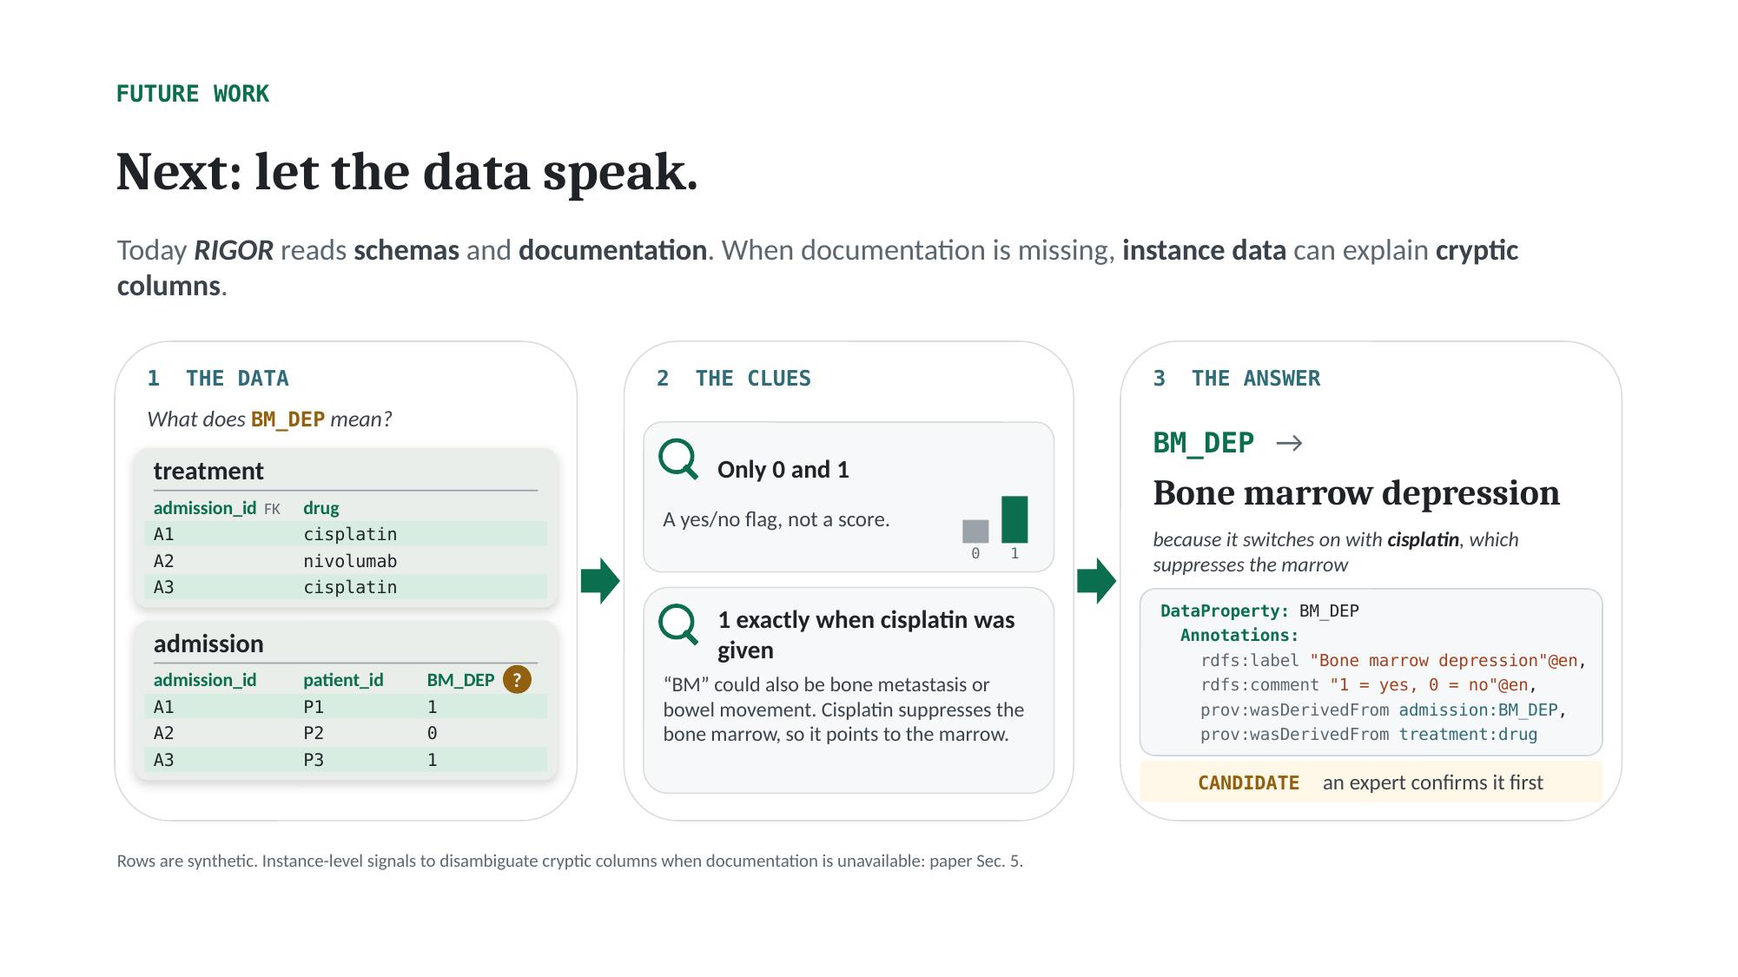
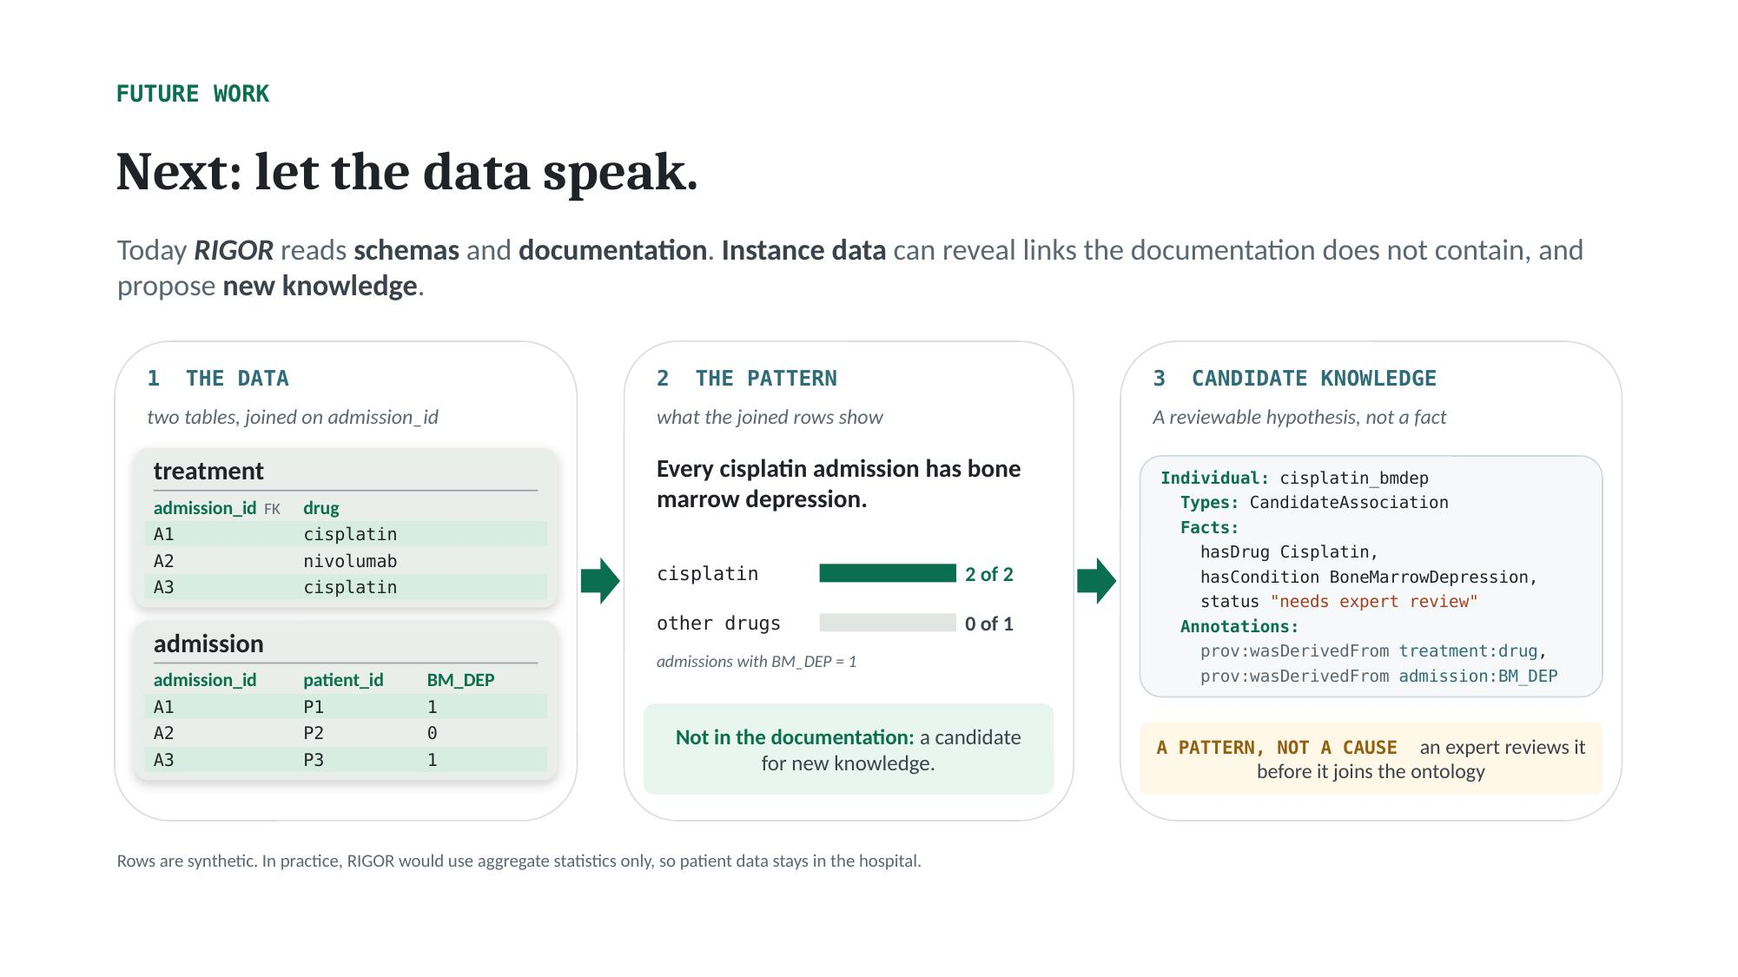
Future work: instance data proposes new knowledge (author's storyline)
Data -> pattern -> candidate knowledge: joined on admission_id, every cisplatin admission has
bone marrow depression, a link not in the documentation, proposed as a candidate association
with provenance to both columns and flagged 'a pattern, not a cause' for expert review. No
documentation in the evidence. Fragment verified with the OWL API; speech updated.

Claude-Session: https://claude.ai/code/session_01KcycczqUBG98FnzsgJYAW8

diff --git a/presentation/tools/future_v3.py b/presentation/tools/future_v3.py
@@ -1,14 +1,11 @@
 #!/usr/bin/env python3
-"""Future-work slide: let the instance data explain a cryptic column (paper Sec. 5).
+"""Future-work slide: instance data can propose new knowledge.
 
-On the author's edited deck (the slide whose eyebrow starts with FUTURE WORK; the evaluation-loop
-step has its own slide in the author's deck):
-  - title "Next: let the data speak.", with the lead line as subtitle;
-  - three cards, data -> clues -> answer: the two instance tables with a "?" on BM_DEP (the question
-    from the motivation slide), two clues read from the data (a 0/1 flag; 1 exactly with cisplatin),
-    and the proposed label with provenance (code_excerpts.FUTURE, verified with the OWL API);
-  - source line in the footer (synthetic rows; paper Sec. 5).
-Speaker notes come from speech.py. Writes a deck with only this slide.
+On the author's edited deck (the slide whose eyebrow starts with FUTURE WORK; the evaluation-loop step has
+its own slide): the data shows a link the documentation does not contain (every cisplatin admission has
+bone marrow depression), and RIGOR proposes it as a candidate association for expert review.
+Three cards: the data (two tables joined on admission_id) -> the pattern -> the candidate knowledge
+(code_excerpts.FUTURE, verified with the OWL API). Speaker notes come from speech.py.
 
 Usage: python3 future_v3.py <in.pptx> <out.pptx>
 """
@@ -59,20 +56,6 @@ def xfrm(x, y, w, h, rot=0):
             f'<a:ext cx="{int(w * EMU)}" cy="{int(h * EMU)}"/></a:xfrm>')
 
 
-def magnifier(ids, x, y, size=0.34):
-    """A plain magnifier in the deck's emerald: a ring and a 45-degree handle."""
-    ring = raw(f'<p:sp><p:nvSpPr><p:cNvPr id="{ids()}" name="Magnifier ring"/><p:cNvSpPr/><p:nvPr/></p:nvSpPr>'
-               f'<p:spPr>{xfrm(x, y, size * 0.72, size * 0.72)}<a:prstGeom prst="ellipse"><a:avLst/></a:prstGeom>'
-               f'<a:solidFill><a:srgbClr val="FFFFFF"/></a:solidFill><a:ln w="28575"><a:solidFill>'
-               f'<a:srgbClr val="{EMERALD}"/></a:solidFill></a:ln></p:spPr></p:sp>')
-    hx, hy = x + size * 0.62, y + size * 0.52
-    handle = raw(f'<p:sp><p:nvSpPr><p:cNvPr id="{ids()}" name="Magnifier handle"/><p:cNvSpPr/><p:nvPr/></p:nvSpPr>'
-                 f'<p:spPr>{xfrm(hx, hy, size * 0.12, size * 0.40, rot=-2700000)}<a:prstGeom prst="roundRect">'
-                 f'<a:avLst/></a:prstGeom><a:solidFill><a:srgbClr val="{EMERALD}"/></a:solidFill><a:ln><a:noFill/>'
-                 f'</a:ln></p:spPr></p:sp>')
-    return [ring, handle]
-
-
 def arrow(ids, x, y):
     return raw(f'<p:sp><p:nvSpPr><p:cNvPr id="{ids()}" name="Arrow"/><p:cNvSpPr/><p:nvPr/></p:nvSpPr>'
                f'<p:spPr>{xfrm(x, y, 0.30, 0.36)}<a:prstGeom prst="rightArrow"><a:avLst/></a:prstGeom>'
@@ -99,9 +82,6 @@ def tables(tree, ids, x, w):
         for col, cw in zip(cols, widths):
             label = r(col, EMERALD, 1050, True) + (r("  FK", MUTED, 900) if col == fk else "")
             add(tree, shape(ids(), "Column", cx, y + 0.35, cw, 0.20, label, anchor="ctr"))
-            if col == "BM_DEP":   # the open question from the motivation slide
-                add(tree, shape(ids(), "Question", cx + 0.58, y + 0.34, 0.22, 0.22, r("?", "FFFFFF", 1100, True),
-                                geom="ellipse", fill=AMBER, align="ctr", anchor="ctr"))
             cx += cw
         for k, row in enumerate(rows):
             ry = y + 0.56 + k * 0.205
@@ -114,47 +94,41 @@ def tables(tree, ids, x, w):
         y += h + 0.10
 
 
-def clues(tree, ids, x, w):
-    cy = CARD_TOP + 0.62
-    for k, (head, body, height) in enumerate((
-            ("Only 0 and 1", "A yes/no flag, not a score.", 1.15),
-            ("1 exactly when cisplatin was given",
-             "\u201cBM\u201d could also be bone metastasis or bowel movement. Cisplatin suppresses the bone marrow, "
-             "so it points to the marrow.", 1.58))):
-        add(tree, shape(ids(), "Clue", x + 0.15, cy, w - 0.30, height, geom="roundRect", fill="F6F8FA", line=LINE))
-        for el in magnifier(ids, x + 0.28, cy + 0.14):
-            add(tree, el)
-        add(tree, box(ids, x + 0.72, cy + 0.10, w - 1.0, 0.50, r(head, INK, 1400, True), anchor="ctr", name="Clue head"))
-        add(tree, box(ids, x + 0.30, cy + 0.64, w - 1.25 if k == 0 else w - 0.6, height - 0.72,
-                      r(body, BODY, 1200 if k == 0 else 1150), name="Clue body"))
-        if k == 0:   # BM_DEP values in the admission rows: one 0, two 1s
-            base = cy + height - 0.22
-            for j, (label, count) in enumerate((("0", 1), ("1", 2))):
-                bx = x + w - 0.85 + j * 0.30
-                add(tree, shape(ids(), "Value bar", bx, base - 0.18 * count, 0.20, 0.18 * count,
-                                fill=EMERALD if label == "1" else "9AA3A9"))
-                add(tree, box(ids, bx - 0.05, base + 0.01, 0.30, 0.16, r(label, MUTED, 900, False, "Consolas"),
-                              align="ctr", name="Value label"))
-        cy += height + 0.12
+def pattern(tree, ids, x, w):
+    y = CARD_TOP + 0.85
+    add(tree, box(ids, x + 0.25, y, w - 0.5, 0.62,
+                  r("Every cisplatin admission has bone marrow depression.", INK, 1400, True), name="Pattern"))
+    y += 0.78
+    for label, hits, total in (("cisplatin", 2, 2), ("other drugs", 0, 1)):
+        add(tree, box(ids, x + 0.25, y, 1.25, 0.30, r(label, INK, 1150, False, "Consolas"), anchor="ctr",
+                      name="Group"))
+        add(tree, shape(ids(), "Track", x + 1.50, y + 0.08, 1.05, 0.14, fill="E1E6E3"))
+        if hits:
+            add(tree, shape(ids(), "Bar", x + 1.50, y + 0.08, 1.05 * hits / total, 0.14, fill=EMERALD))
+        add(tree, box(ids, x + 2.62, y, 0.65, 0.30, r(f"{hits} of {total}", EMERALD if hits else BODY, 1150, True),
+                      anchor="ctr", name="Count"))
+        y += 0.38
+    add(tree, box(ids, x + 0.25, y - 0.02, w - 0.5, 0.22, r("admissions with BM_DEP = 1", MUTED, 950, italic=True),
+                  name="Axis note"))
+    add(tree, shape(ids(), "Not documented", x + 0.15, CARD_TOP + 2.78, w - 0.30, 0.70,
+                    r("Not in the documentation: ", EMERALD, 1200, True)
+                    + r("a candidate for new knowledge.", BODY, 1200),
+                    geom="roundRect", fill="E8F6EF", align="ctr", anchor="ctr", inset=0.12))
 
 
-def answer(tree, ids, x, w):
-    add(tree, box(ids, x + 0.25, CARD_TOP + 0.62, w - 0.5, 0.34,
-                  r("BM_DEP", EMERALD, 1700, True, "Consolas") + r("   \u2192", MUTED, 1700), name="Reveal key"))
-    add(tree, box(ids, x + 0.25, CARD_TOP + 0.98, w - 0.5, 0.42, r("Bone marrow depression", INK, 2000, True,
-                                                                   "Cambria"), name="Reveal"))
-    add(tree, box(ids, x + 0.25, CARD_TOP + 1.42, w - 0.5, 0.44,
-                  r("because it switches on with ", BODY, 1150, italic=True) + r("cisplatin", INK, 1150, True, italic=True)
-                  + r(", which suppresses the marrow", BODY, 1150, italic=True), name="Because"))
+def candidate(tree, ids, x, w):
+    add(tree, box(ids, x + 0.25, CARD_TOP + 0.48, w - 0.5, 0.28, r("A reviewable hypothesis, not a fact", MUTED, 1150,
+                                                                   italic=True), name="Note"))
     lines = FUTURE.splitlines()
-    px, py, pw, pitch = x + 0.15, CARD_TOP + 1.90, w - 0.30, 0.19
+    px, py, pw, pitch = x + 0.15, CARD_TOP + 0.88, w - 0.30, 0.19
     add(tree, simple_box(ids(), "Code panel", px, py, pw, len(lines) * pitch + 0.14, fill="F6F8FA", line="D0D7DE",
                          geom="roundRect"))
     for k, line in enumerate(lines):
         add(tree, code_line(ids(), px, py + 0.07 + k * pitch, pw - 0.05, pitch, line, "", None, size=1000))
-    add(tree, shape(ids(), "Candidate", x + 0.15, CARD_TOP + 3.22, w - 0.30, 0.32,
-                    r("CANDIDATE  ", AMBER, 1150, True, "Consolas") + r("an expert confirms it first", BODY, 1200),
-                    geom="roundRect", fill="FFF7E8", align="ctr", anchor="ctr"))
+    add(tree, shape(ids(), "Candidate", x + 0.15, CARD_TOP + 2.92, w - 0.30, 0.56,
+                    r("A PATTERN, NOT A CAUSE  ", AMBER, 1100, True, "Consolas")
+                    + r("an expert reviews it before it joins the ontology", BODY, 1150),
+                    geom="roundRect", fill="FFF7E8", align="ctr", anchor="ctr", inset=0.10))
 
 
 def edit(tree):
@@ -175,25 +149,22 @@ def edit(tree):
     ids = Ids(tree)
     add(tree, box(ids, 0.90, 1.84, 11.5, 0.40, "".join(r(t, "3A434C" if b else MUTED, 1650, b, italic=i) for t, b, i in (
         ("Today ", False, False), ("RIGOR", True, True), (" reads ", False, False), ("schemas", True, False),
-        (" and ", False, False), ("documentation", True, False), (". When documentation is missing, ", False, False),
-        ("instance data", True, False), (" can explain ", False, False), ("cryptic columns", True, False),
-        (".", False, False))), anchor="ctr", name="Subtitle"))
+        (" and ", False, False), ("documentation", True, False), (". ", False, False), ("Instance data", True, False),
+        (" can reveal links the documentation does not contain, and propose ", False, False),
+        ("new knowledge", True, False), (".", False, False))), anchor="ctr", name="Subtitle"))
     (x1, w1), (x2, w2), (x3, w3) = CARDS
-    card(tree, ids, x1, w1, "1  THE DATA")
-    add(tree, box(ids, x1 + 0.25, CARD_TOP + 0.48, w1 - 0.5, 0.28,
-                  r("What does ", BODY, 1250, italic=True) + r("BM_DEP", AMBER, 1250, True, "Consolas")
-                  + r(" mean?", BODY, 1250, italic=True), name="Question"))
+    card(tree, ids, x1, w1, "1  THE DATA", "two tables, joined on admission_id")
     tables(tree, ids, x1, w1)
-    card(tree, ids, x2, w2, "2  THE CLUES")
-    clues(tree, ids, x2, w2)
-    card(tree, ids, x3, w3, "3  THE ANSWER")
-    answer(tree, ids, x3, w3)
+    card(tree, ids, x2, w2, "2  THE PATTERN", "what the joined rows show")
+    pattern(tree, ids, x2, w2)
+    card(tree, ids, x3, w3, "3  CANDIDATE KNOWLEDGE")
+    candidate(tree, ids, x3, w3)
     mid = CARD_TOP + CARD_H / 2 - 0.18
     add(tree, arrow(ids, x1 + w1 + 0.03, mid))
     add(tree, arrow(ids, x2 + w2 + 0.03, mid))
     add(tree, box(ids, 0.90, 6.52, 11.6, 0.26,
-                  r("Rows are synthetic. Instance-level signals to disambiguate cryptic columns when documentation is "
-                    "unavailable: paper Sec. 5.", MUTED, 1000), name="Source"))
+                  r("Rows are synthetic. In practice, RIGOR would use aggregate statistics only, so patient data stays "
+                    "in the hospital.", MUTED, 1000), name="Source"))
 
 
 def main(src, dst):

diff --git a/presentation/tools/speech.py b/presentation/tools/speech.py
@@ -250,21 +250,22 @@ SLIDES = [
          extra=["IF ASKED HOW MANY: the judge ranked RIGOR first on 58 of 58 tables (16 Liver Cancer, 31 eICU-CRD, 11 "
                 "Chinook); the experts in 28 of 40 rankings (10 experts x 4 tables)."]),
     dict(title="Future work",
-         say="Where next? Let the data speak. Remember BM_DEP? Without documentation, the name alone is a guess: "
-             "BM could be bone metastasis, or bowel movement. The data gives two clues: it is only ever zero or "
-             "one, so it is a flag; and it is one exactly when the patient received cisplatin, a chemotherapy known "
-             "to suppress the bone marrow. So RIGOR can propose: bone marrow depression, with provenance to both "
-             "columns, the flag and the drug, for an expert to confirm.",
-         cue="The '?' on BM_DEP, then the two clues, then the reveal.",
-         takeaway="When documentation is missing, instance data can explain cryptic columns.",
-         source="Paper Sec. 5 (instance-level signals for cryptic columns when documentation is unavailable). Rows "
-                "are synthetic. OWL verified (presentation/excerpts/slide22_future_candidate.omn).",
-         cut="BM could be bone metastasis, or bowel movement.",
-         extra=["IF ASKED 'WHY NOT JUST ASK THE LLM WHAT BM_DEP MEANS?': from the name alone it is a guess. The data "
-                "narrows it down: a 0/1 flag that switches on with cisplatin. That is evidence, and we keep "
-                "provenance to both columns.",
-                "IF ASKED ABOUT PRIVACY: only aggregate statistics (value ranges, co-occurrence) need to leave the "
-                "database, not patient rows."]),
+         say="Where next? Let the data speak. Today RIGOR reads schemas and documentation, but the data can show "
+             "links the documentation does not contain. Here, the treatment table says which admissions received "
+             "cisplatin, and the admission table records bone marrow depression. Joined on the admission id, every "
+             "cisplatin admission has bone marrow depression. That link is not in the documentation, so RIGOR can "
+             "propose it as candidate knowledge, with provenance to both columns. A pattern, not a cause: an "
+             "expert reviews it before it joins the ontology.",
+         cue="A1 and A3 in both tables; then the pattern bars; then the candidate code and its badge.",
+         takeaway="Instance data can propose new, reviewable knowledge that the documentation does not contain.",
+         source="Rows are synthetic. OWL verified (presentation/excerpts/slide22_future_candidate.omn): a typed "
+                "individual with provenance, no causal axiom.",
+         cut="Today RIGOR reads schemas and documentation, but",
+         extra=["IF ASKED WHY NOT AN OWL CAUSAL AXIOM: OWL reasoning is deductive and open-world; it cannot derive "
+                "causation from statistics, and 'Cisplatin SubClassOf causes some BoneMarrowDepression' would "
+                "wrongly claim it for every case. Other treatments or conditions could explain the pattern.",
+                "IF ASKED ABOUT PRIVACY: only aggregate statistics (co-occurrence counts) need to leave the database, "
+                "not patient rows."]),
     dict(title="Thank you",
          say="To conclude. RIGOR anchors LLM generation in the database itself, grounds it in retrieved knowledge, "
              "and checks every step before the ontology grows. The result: meaning without losing structure, the "

diff --git a/presentation/tools/code_excerpts.py b/presentation/tools/code_excerpts.py
@@ -131,16 +131,25 @@ def target_state(upto):
         out.append(line.rstrip(",") + ("," if line.startswith("    ") and continues else ""))
     return "\n".join(out)
 
-# Future work: no documentation, so instance data explains a cryptic column (paper Sec. 5). The data shows
-# BM_DEP is a 0/1 flag that is 1 exactly when cisplatin was given; RIGOR proposes a label for expert review.
-FUTURE = """DataProperty: BM_DEP
+# Future work: instance data shows a link the documentation does not contain (cisplatin admissions have
+# bone marrow depression); RIGOR proposes it as a candidate association for expert review (paper Sec. 5).
+FUTURE = """Individual: cisplatin_bmdep
+  Types: CandidateAssociation
+  Facts:
+    hasDrug Cisplatin,
+    hasCondition BoneMarrowDepression,
+    status "needs expert review"
   Annotations:
-    rdfs:label "Bone marrow depression"@en,
-    rdfs:comment "1 = yes, 0 = no"@en,
-    prov:wasDerivedFrom admission:BM_DEP,
-    prov:wasDerivedFrom treatment:drug"""
+    prov:wasDerivedFrom treatment:drug,
+    prov:wasDerivedFrom admission:BM_DEP"""
 
-FUTURE_SUPPORT = """Individual: treatment:drug
+FUTURE_SUPPORT = """Class: CandidateAssociation
+ObjectProperty: hasDrug
+ObjectProperty: hasCondition
+DataProperty: status
+Individual: Cisplatin
+Individual: BoneMarrowDepression
+Individual: treatment:drug
 """
 
 # Slide 10: errors a capable LLM still makes, which the paper's checks target.

diff --git a/presentation/SPEECH.md b/presentation/SPEECH.md
@@ -1,6 +1,6 @@
 # RIGOR @ ISWC 2026: speech
 
-Spoken script for the 23 main slides: **1386 words**, ending at **13:22** at 105 words per minute (the original deck's pace, clicks included) plus 2 s per marked [pause]. The slot is 15 minutes with Q&A separate, so this leaves a margin for a slower delivery.
+Spoken script for the 23 main slides: **1391 words**, ending at **13:25** at 105 words per minute (the original deck's pace, clicks included) plus 2 s per marked [pause]. The slot is 15 minutes with Q&A separate, so this leaves a margin for a slower delivery.
 
 The same text is in each slide's speaker notes. This file is generated by `presentation/tools/speech.py`; edit the script there, not here.
 
@@ -220,21 +220,21 @@ Automatic checks agree. Do evaluators agree? For each table, an LLM judge and te
 
 > IF ASKED HOW MANY: the judge ranked RIGOR first on 58 of 58 tables (16 Liver Cancer, 31 eICU-CRD, 11 Chinook); the experts in 28 of 40 rankings (10 experts x 4 tables).
 
-## 24. Future work  ·  12:03–12:49  ·  81 words
+## 24. Future work  ·  12:03–12:52  ·  86 words
 
-Where next? Let the data speak. Remember BM_DEP? Without documentation, the name alone is a guess: BM could be bone metastasis, or bowel movement. The data gives two clues: it is only ever zero or one, so it is a flag; and it is one exactly when the patient received cisplatin, a chemotherapy known to suppress the bone marrow. So RIGOR can propose: bone marrow depression, with provenance to both columns, the flag and the drug, for an expert to confirm.
+Where next? Let the data speak. Today RIGOR reads schemas and documentation, but the data can show links the documentation does not contain. Here, the treatment table says which admissions received cisplatin, and the admission table records bone marrow depression. Joined on the admission id, every cisplatin admission has bone marrow depression. That link is not in the documentation, so RIGOR can propose it as candidate knowledge, with provenance to both columns. A pattern, not a cause: an expert reviews it before it joins the ontology.
 
-*Pointer:* The '?' on BM_DEP, then the two clues, then the reveal.  
-*Takeaway:* When documentation is missing, instance data can explain cryptic columns.  
-*Source:* Paper Sec. 5 (instance-level signals for cryptic columns when documentation is unavailable). Rows are synthetic. OWL verified (presentation/excerpts/slide22_future_candidate.omn).
+*Pointer:* A1 and A3 in both tables; then the pattern bars; then the candidate code and its badge.  
+*Takeaway:* Instance data can propose new, reviewable knowledge that the documentation does not contain.  
+*Source:* Rows are synthetic. OWL verified (presentation/excerpts/slide22_future_candidate.omn): a typed individual with provenance, no causal axiom.
   
-*If late, drop:* "BM could be bone metastasis, or bowel movement."
+*If late, drop:* "Today RIGOR reads schemas and documentation, but"
 
-> IF ASKED 'WHY NOT JUST ASK THE LLM WHAT BM_DEP MEANS?': from the name alone it is a guess. The data narrows it down: a 0/1 flag that switches on with cisplatin. That is evidence, and we keep provenance to both columns.
+> IF ASKED WHY NOT AN OWL CAUSAL AXIOM: OWL reasoning is deductive and open-world; it cannot derive causation from statistics, and 'Cisplatin SubClassOf causes some BoneMarrowDepression' would wrongly claim it for every case. Other treatments or conditions could explain the pattern.
 
-> IF ASKED ABOUT PRIVACY: only aggregate statistics (value ranges, co-occurrence) need to leave the database, not patient rows.
+> IF ASKED ABOUT PRIVACY: only aggregate statistics (co-occurrence counts) need to leave the database, not patient rows.
 
-## 25. Thank you  ·  12:49–13:22  ·  57 words
+## 25. Thank you  ·  12:52–13:25  ·  57 words
 
 To conclude. RIGOR anchors LLM generation in the database itself, grounds it in retrieved knowledge, and checks every step before the ontology grows. The result: meaning without losing structure, the link to the data intact, and ontologies that experts prefer. The paper and code are behind these QR codes. Thank you. I'm happy to take your questions.
 

diff --git a/presentation/OPEN_ITEMS.md b/presentation/OPEN_ITEMS.md
@@ -57,10 +57,10 @@ author's edits.
   OntoMetrics refs), Direct Mapping and LLM baseline shown as 'none in any run', shading within each database, R4 BURR (one
   Claude run), R5 LLM judge + experts per database with competency questions (Tables 1, 6, 12).
   Ablation stays in backup (one database, one LLM, tiny overall difference). Talk ends at 13:53.
-- Future work (`tools/future_v3.py`, output `RIGOR_future_work.pptx`): only about instance data (the author
-  moved the evaluation-loop step to its own slide). "Next: let the data speak." Data -> clues -> answer: with
-  no documentation, BM_DEP is a 0/1 flag that is 1 exactly with cisplatin -> "Bone marrow depression",
-  candidate for expert review (paper Sec. 5). The loop slide's speech is not in speech.py yet.
+- Future work (`tools/future_v3.py`, output `RIGOR_future_work.pptx`): instance data proposes new knowledge.
+  Data (treatment + admission, joined on admission_id) -> pattern (every cisplatin admission has bone marrow
+  depression; not in the documentation) -> candidate association with provenance to both columns, "a
+  pattern, not a cause", reviewed by an expert. The evaluation-loop step is on the author's own slide.
 
 ## Author's decisions to carry into the next revision
 
@@ -81,3 +81,5 @@ author's edits.
 - The paper cites "Ontometrics [32]" for its structural metrics, but [32] is Lozano-Tello & Gomez-Perez,
   "Ontometric: A method to choose the appropriate ontology" (JDM 2004), a different work. The metrics
   tool is OntoMetrics (Lantow, KEOD 2016); the slides cite that.
+- The paper cites the seven judging dimensions to "[44, 58, 53]", but [44] is Pollard et al. (the eICU-CRD
+  dataset paper). The six classic criteria come from Vrandecic 2009 [58]; domain enrichment is the paper's own.

diff --git a/presentation/REHEARSAL_CARD.md b/presentation/REHEARSAL_CARD.md
@@ -1,6 +1,6 @@
 # Rehearsal card
 
-Target: finish by **13:30**. Planned end: **13:22** (1386 words).
+Target: finish by **13:30**. Planned end: **13:25** (1391 words).
 
 | Slide | Starts at | Ends at | Words |
 |---|---|---|---|
@@ -27,8 +27,8 @@ Target: finish by **13:30**. Planned end: **13:22** (1386 words).
 | 21. Result 3: adds meaning | 9:57 | 10:21 | 39 |
 | 22. Result 4: BURR | 10:21 | 11:07 | 81 |
 | 23. Result 5: LLM judge and experts | 11:07 | 12:03 | 91 |
-| 24. Future work | 12:03 | 12:49 | 81 |
-| 25. Thank you | 12:49 | 13:22 | 57 |
+| 24. Future work | 12:03 | 12:52 | 86 |
+| 25. Thank you | 12:52 | 13:25 | 57 |
 
 ## Checkpoints
 
@@ -49,7 +49,7 @@ Glance at the clock when these slides come up. More than 30 s behind: apply the 
 - Slide 21 (Result 3: adds meaning): drop "Non-Iterative RAG adds labels, but no provenance and no class hierarchy." (saves ~6 s)
 - Slide 22 (Result 4: BURR): drop "scored with F1 against a gold mapping" (saves ~4 s)
 - Slide 23 (Result 5: LLM judge and experts): drop "with the highest average score on both databases" (saves ~5 s)
-- Slide 24 (Future work): drop "BM could be bone metastasis, or bowel movement." (saves ~5 s)
+- Slide 24 (Future work): drop "Today RIGOR reads schemas and documentation, but" (saves ~4 s)
 
 All cuts together save about 43 s.
 
